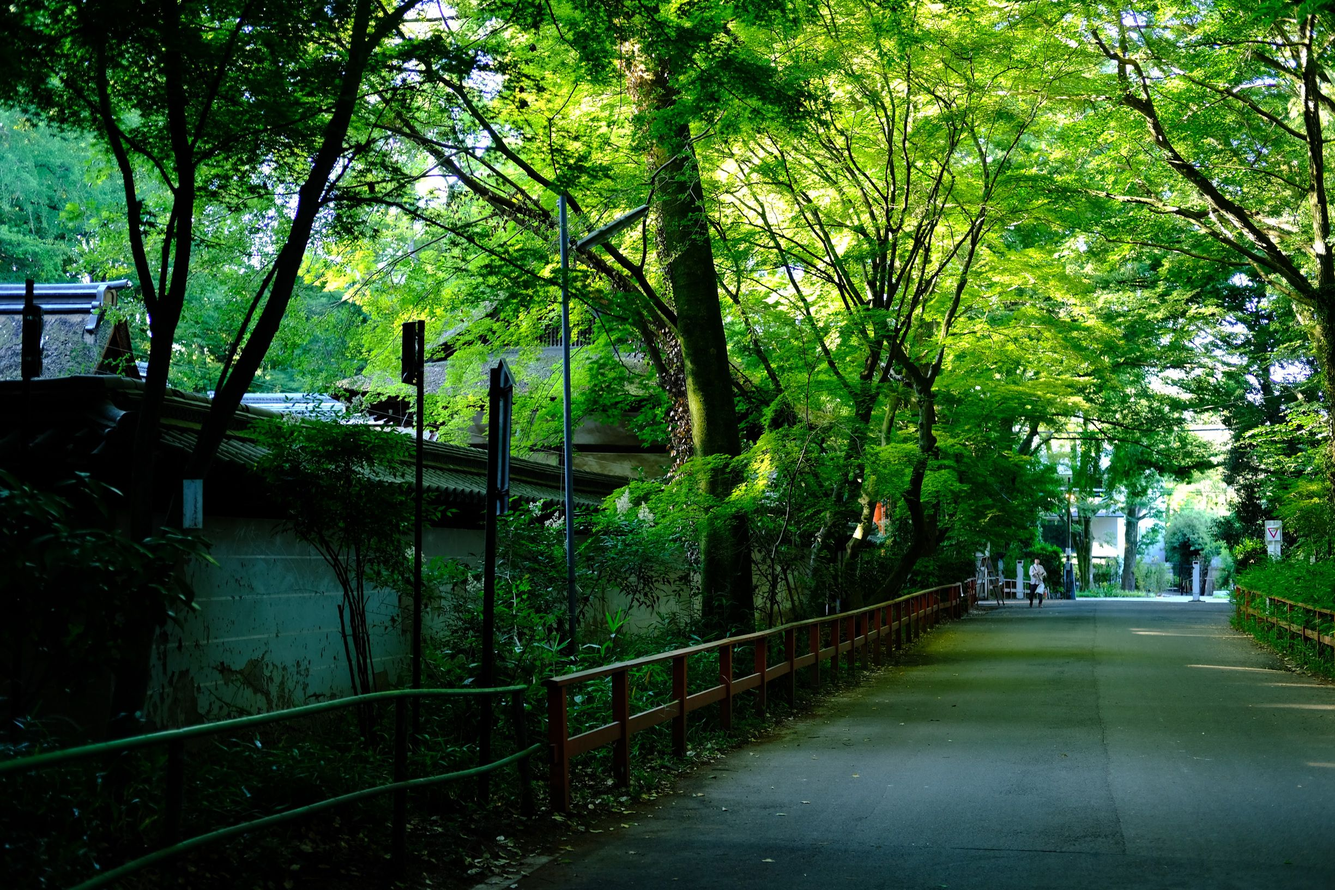
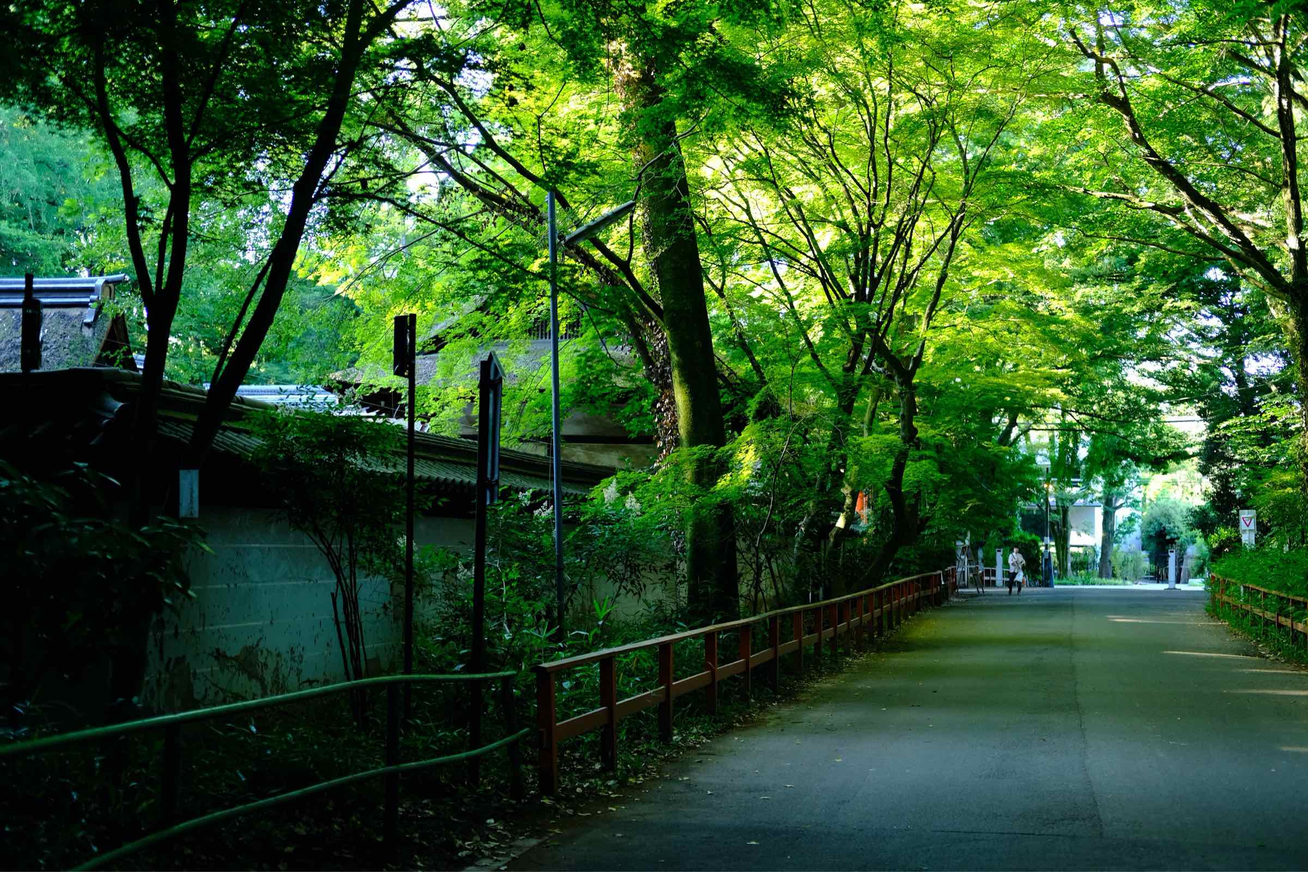
image optimazation is not suitable in top page.

diff --git a/src/pages/index.tsx b/src/pages/index.tsx
@@ -1,5 +1,5 @@
 import Head from 'next/head'
-import Image from 'next/image'
+// import Image from 'next/image'
 import { Nav } from '../components/Nav'
 
 const Template = () => {
@@ -11,7 +11,8 @@ const Template = () => {
         <meta property='og:image' content='https://phantomtype.com/ogkyoto.jpg' />
         <meta name='twitter:image' content='https://phantomtype.com/ogkyoto.jpg' />
       </Head>
-      <Image className='object-cover w-screen h-screen absolute top-0' src={'/kyoto.jpg'} unsized />
+      {/* <Image className='object-cover w-screen h-screen absolute top-0' src={'/kyoto.jpg'} unsized /> */}
+      <img className='object-cover w-screen h-screen absolute top-0' src={'/kyoto.jpg'} />
       <section className='absolute w-screen h-screen flex flex-col-reverse justify-around'>
         <div className='mx-8 lg:mx-16 grid grid-cols-1 gap-16'>
           <div className='flex'>
